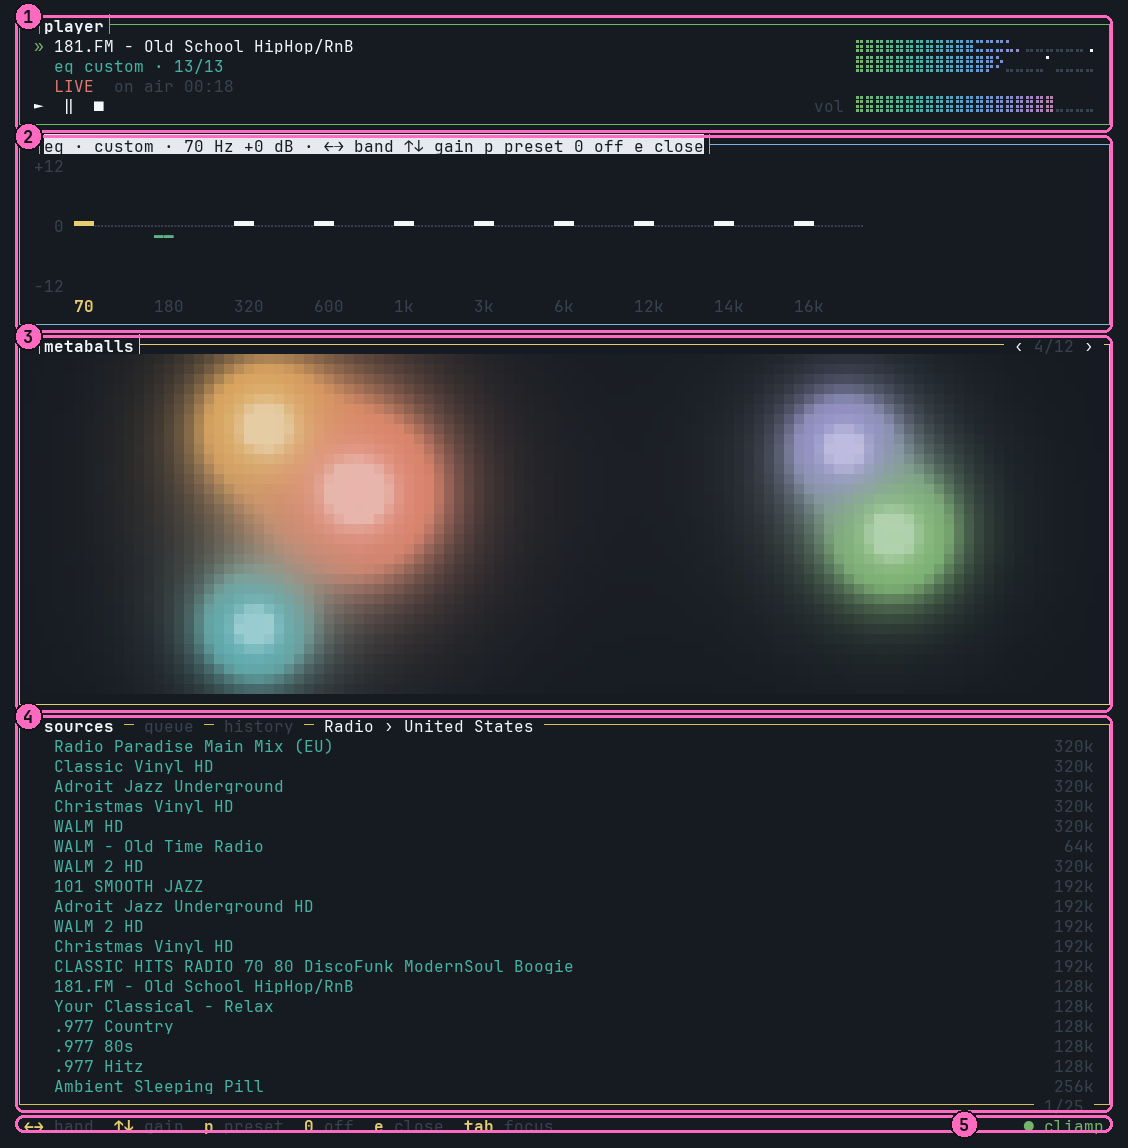
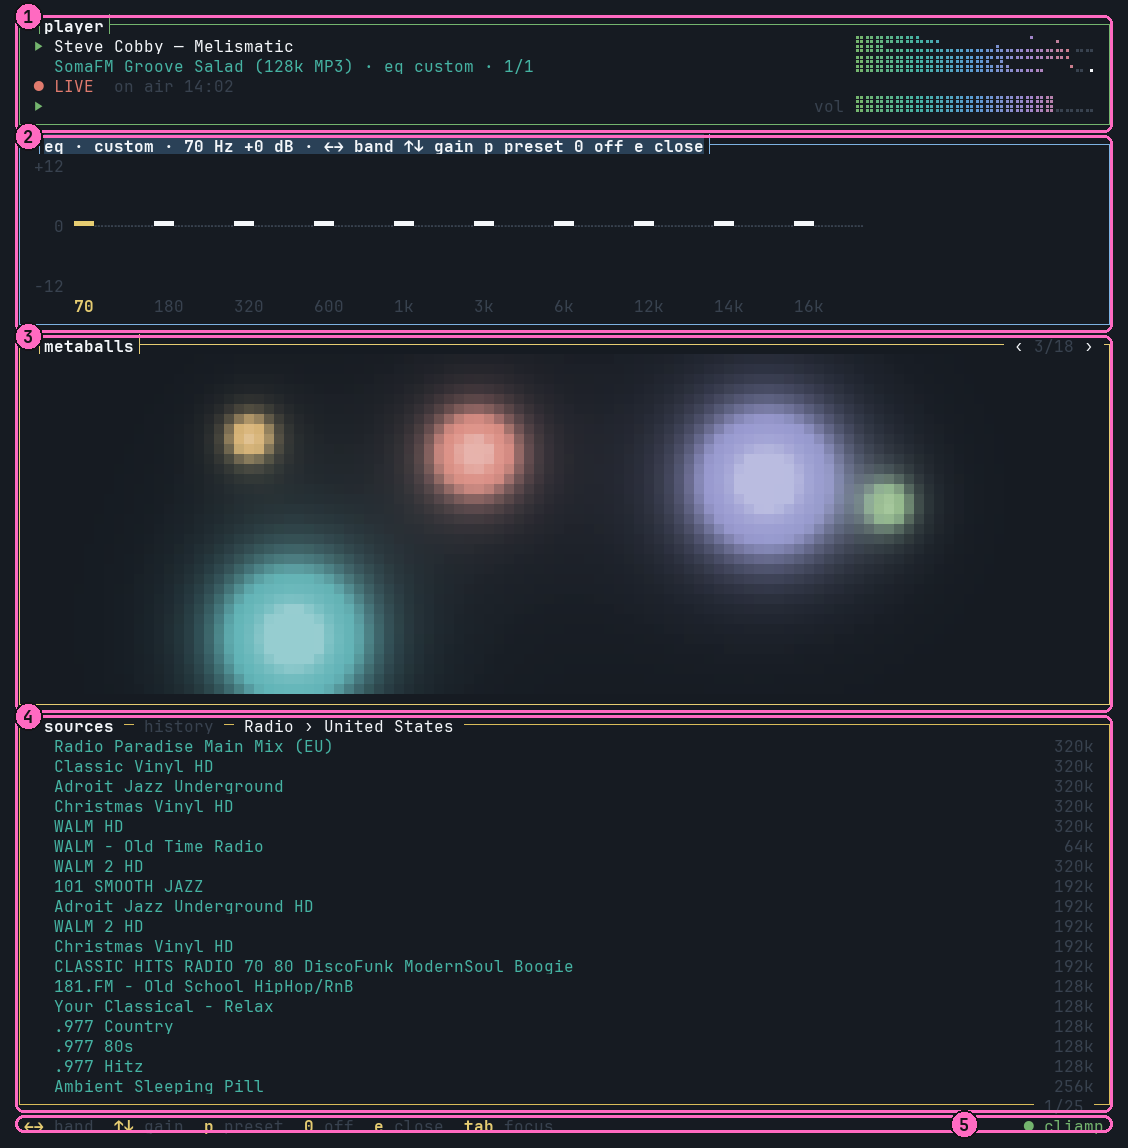
Recapture the screenshots and lead the README with install
Every capture with the player or sources in it predated the single state
button, playlist browsing and the dropped Queue tab. Install now sits right
under the opening animation.

ansi2png.py expands tabs: tmux 3.5+ keeps the tabs a renderer uses to skip
blank cells, and they were drawn as boxes.

diff --git a/docs/screenshots/ansi2png.py b/docs/screenshots/ansi2png.py
@@ -74,6 +74,9 @@ def parse(path):
                 for ch in tok:
                     fg, bg = st['fg'] or FG, st['bg'] or BG
                     if st['rev']: fg, bg = bg, fg
+                    if ch == '\t':  # tmux 3.5+ keeps the tabs a renderer skips blank cells with
+                        cells.extend([(' ', fg, bg, False)] * (8 - len(cells) % 8))
+                        continue
                     cells.append((ch, fg, bg, st['bold']))
         rows.append(cells)
     while rows and not rows[-1]: rows.pop()

diff --git a/README.md b/README.md
@@ -5,6 +5,49 @@
 </p>
 <p align="center"><sub>Player, EQ, visualizer and playlist stacked in one narrow window, the way Winamp sat on a 2000s desktop.</sub></p>
 
+## Install (Omarchy)
+
+cliamp ships with Omarchy, so all you need is the deck. One line installs it to `~/.local/bin` and adds it to the
+app launcher (Super + Space) with cliamp's icon. No sudo, nothing to compile:
+
+```sh
+curl -fsSL https://raw.githubusercontent.com/demian0311/cliamp-deck/master/install.sh | bash
+```
+
+Run the same line again to update. To remove it and its launcher entry:
+
+```sh
+curl -fsSL https://raw.githubusercontent.com/demian0311/cliamp-deck/master/install.sh | bash -s -- --uninstall
+```
+
+The script downloads the release binary for your CPU and checks it against the release's `SHA256SUMS`; read
+[`install.sh`](install.sh) first if you prefer.
+
+**Or as a pacman package** (x86_64), so `omarchy update` keeps it current. One line adds the signed
+`[cliamp-deck]` repository and installs it:
+
+```sh
+curl -LO https://github.com/demian0311/cliamp-deck/releases/download/arch-repo/cliamp-deck-keyring.pkg.tar.zst &&
+  sudo pacman -U ./cliamp-deck-keyring.pkg.tar.zst && sudo pacman -Sy cliamp-deck
+```
+
+**Elsewhere, or from source** — needs Go; on Omarchy `mise use -g go@latest` provides it:
+
+```sh
+GOBIN=~/.local/bin go install github.com/demian0311/cliamp-deck@latest
+```
+
+Any Linux with cliamp v2.0.1 or newer and a truecolor terminal works. On start the deck asks the running cliamp
+which remote operations it supports, and exits with an update hint if any it uses are missing.
+
+```sh
+cliamp-deck                                   # starts `cliamp --daemon` if nothing is running
+cliamp-deck --spawn=false --socket PATH       # attach to a specific instance only
+cliamp-deck --icons plain                     # plain player icons, for a terminal font without Nerd Font glyphs
+```
+
+## About
+
 Alternative terminal UI for [cliamp](https://github.com/bjarneo/cliamp): a btop-style grid and a Winamp-style
 player that re-flow with the terminal, plus a stage of audio-reactive demoscene effects painted in your Omarchy
 theme's colours. All audio, providers and the spectrum come from a running cliamp over its V2 IPC socket.
@@ -59,47 +102,6 @@ and a visualizer alongside:
 | Light themes work too: the EQ open, vortex drawn as ink on paper. | A small terminal stacks the panels; spectrum stays as short as the player. |
 
 Screenshots in Omarchy's Slate Dark and Slate Light themes, playing a cliamp radio stream.
-
-## Install (Omarchy)
-
-cliamp ships with Omarchy, so all you need is the deck. One line installs it to `~/.local/bin` and adds it to the
-app launcher (Super + Space) with cliamp's icon. No sudo, nothing to compile:
-
-```sh
-curl -fsSL https://raw.githubusercontent.com/demian0311/cliamp-deck/master/install.sh | bash
-```
-
-Run the same line again to update. To remove it and its launcher entry:
-
-```sh
-curl -fsSL https://raw.githubusercontent.com/demian0311/cliamp-deck/master/install.sh | bash -s -- --uninstall
-```
-
-The script downloads the release binary for your CPU and checks it against the release's `SHA256SUMS`; read
-[`install.sh`](install.sh) first if you prefer.
-
-**Or as a pacman package** (x86_64), so `omarchy update` keeps it current. One line adds the signed
-`[cliamp-deck]` repository and installs it:
-
-```sh
-curl -LO https://github.com/demian0311/cliamp-deck/releases/download/arch-repo/cliamp-deck-keyring.pkg.tar.zst &&
-  sudo pacman -U ./cliamp-deck-keyring.pkg.tar.zst && sudo pacman -Sy cliamp-deck
-```
-
-**Elsewhere, or from source** — needs Go; on Omarchy `mise use -g go@latest` provides it:
-
-```sh
-GOBIN=~/.local/bin go install github.com/demian0311/cliamp-deck@latest
-```
-
-Any Linux with cliamp v2.0.1 or newer and a truecolor terminal works. On start the deck asks the running cliamp
-which remote operations it supports, and exits with an update hint if any it uses are missing.
-
-```sh
-cliamp-deck                                   # starts `cliamp --daemon` if nothing is running
-cliamp-deck --spawn=false --socket PATH       # attach to a specific instance only
-cliamp-deck --icons plain                     # plain player icons, for a terminal font without Nerd Font glyphs
-```
 
 ## Using it
 
